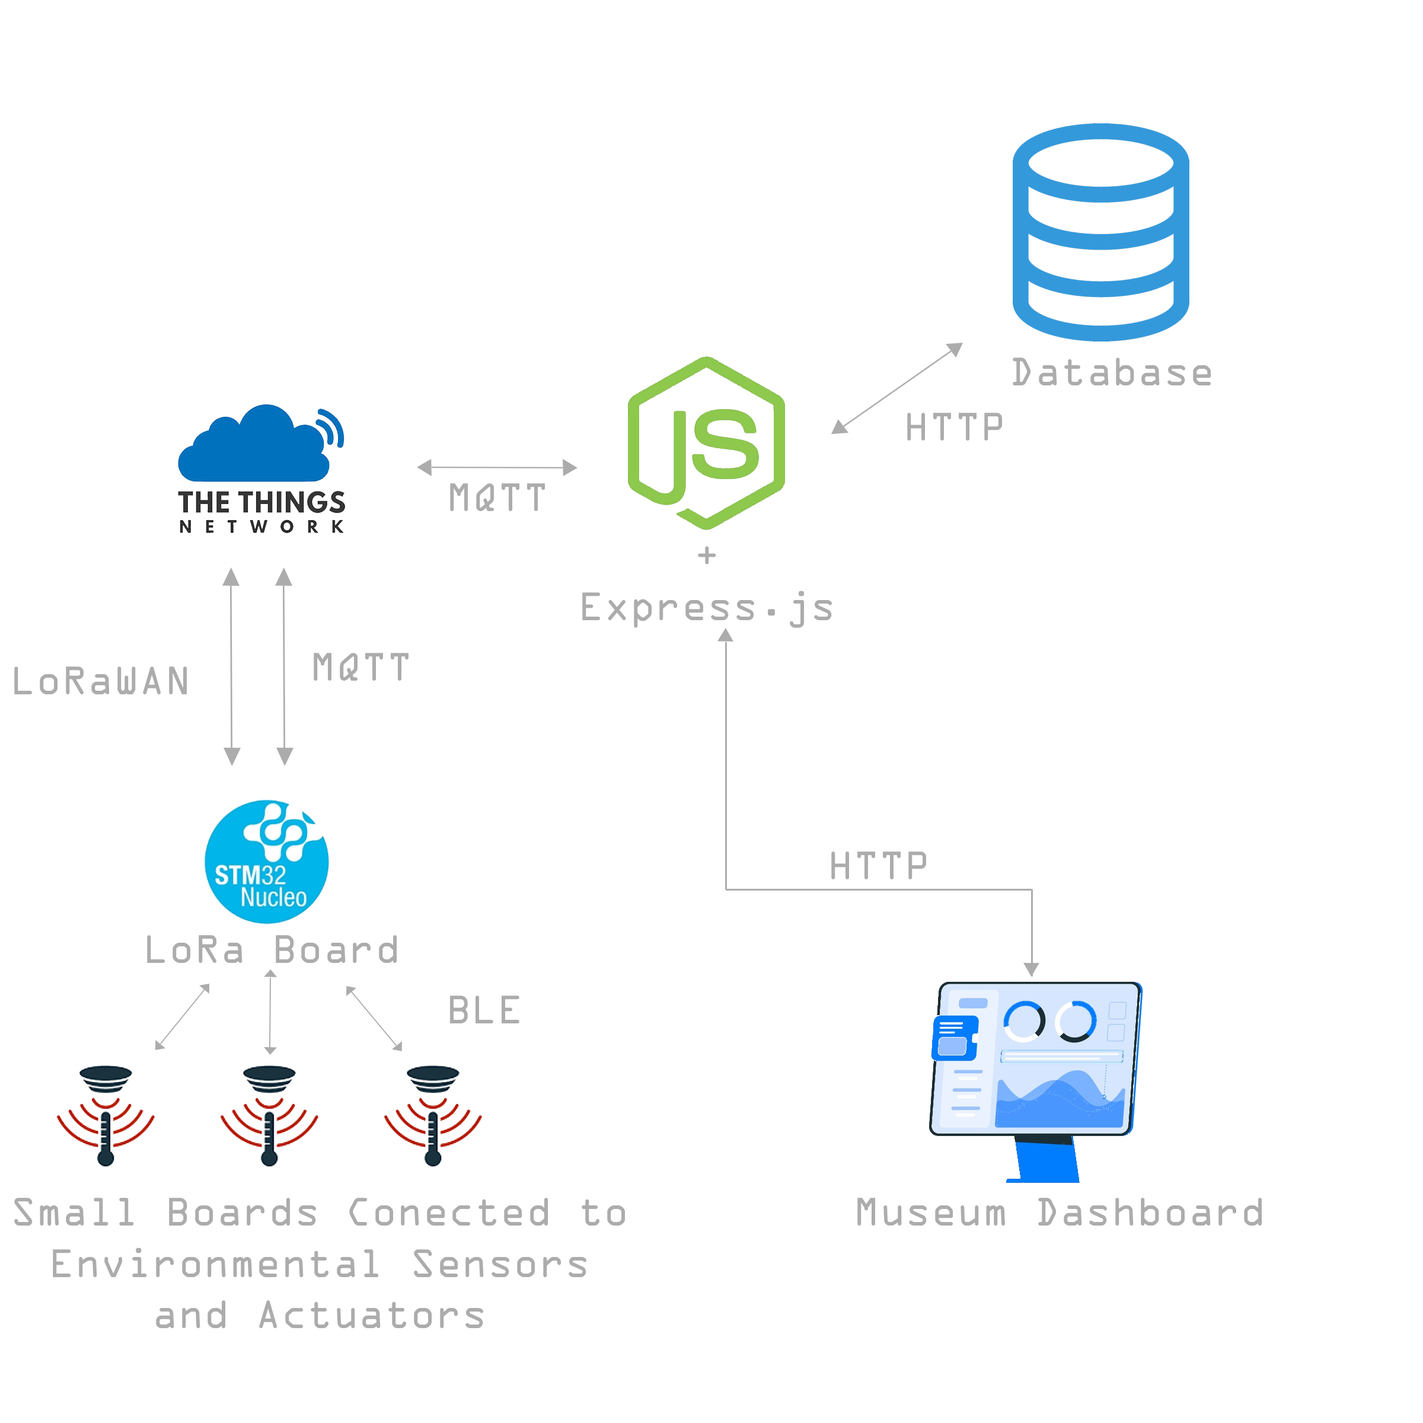
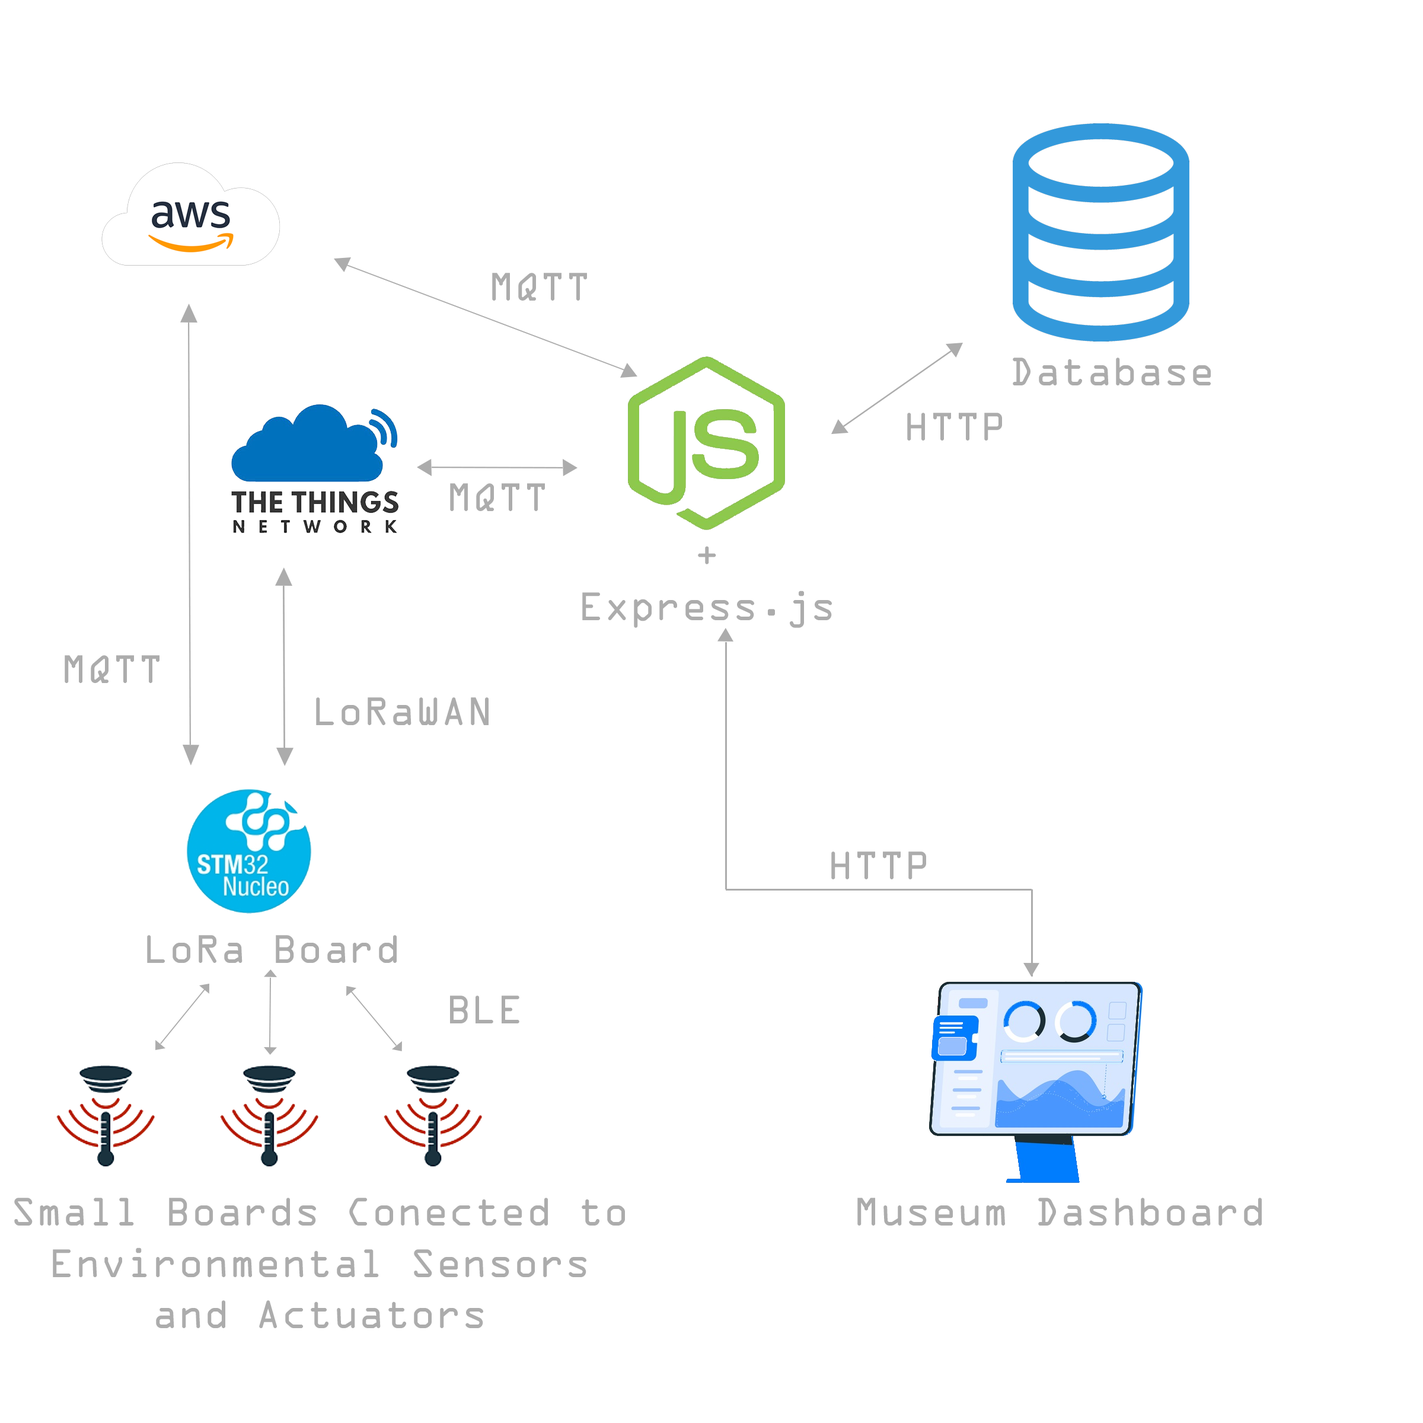
Arch.md updated, gabrileaa storyboard inserted

diff --git a/Evaluation.md b/Evaluation.md
@@ -1,0 +1,151 @@
+# :chart_with_upwards_trend: Evaluation 
+
+## User Experience Evaluation
+To evaluate the user experience we have designed a prototyper of the app (using Adobe XD Mockup software) and we have tested the usability of the product with some sample users.  
+The prototype:  
+![](/img/proto.gif)  
+  
+Feedback:  
+Since the period is a bit tough and there are severe limitations to social life, we restricted testing to our familiar. They found the prototype intuitive, but they suggested us to allow users to use the app even without bluetooth. New prototype:  
+![](/img/proto2.gif)  
+
+## Technical Evaluation
+We have decided to realize a backend microservice architecture to allow modularity and to make system evolution simple so that the application will be as long-lasting as possible, tolerant to changes, integrable with other projects from the course easily.  
+Due to Covid-19, we will test the product from a tecnichal point of view usng IoT-Lab Testbed for the indoor environmental condition monitoring  since it provieds full support to LoRaWAN and also gave access to boards with environmental sensors. Indeed we could also use it to test Beacon broadcast but It does not make much sense. So to test the mobile app we will simmulate beacons with our PC.   
+  
+According to the architecture we have described in the [Architecture file](Architecture.md) we are goingo to compare costs of a solution cloud based and a soluton on premise as well as required hardware costs. We assume project is open source hence no employee to pay.
+### Cloud Hosting Costs 
+*using AWS Pricing Calculator*:
+- To host the Node.js API we use an AWS EC2 on demand instance with daily spike traffic and that can scale up to 2 instances running. We assumed a 3.30 h daily peak of traffic, 2 vCPUs, 4 GB of memory and 32 GB EBS storage. The cost per month is 60.35$ choosing one EU region.
+-  To store data we use simple storage service S3, with an estimate (see database section below) of 500GB per month of storage needed with 100 PUT and 10000 GET, 100 GB of retrived data each month and 500 GB of data scanned. Total: 13.22 $
+- Translation service: free
+<p align="center">
+  <img height="50%" width="50%" src="../img/AWScosts.png">
+</p>   
+
+The same configuration will be 100$ per month on Google cloud only for hosting the app, without considering storage.   
+With [Azure cost estimator](https://azure.microsoft.com/it-it/pricing/calculator/), instead, we have computed 36$ per month using azure data lake storage and app service.
+<p align="center">
+  <img height="50%" width="50%" src="../img/azureCosts.png">
+</p>   
+
+However, 500 GB is an estimate of storage of a very big museum. A more realistic scenario for the Sapienza Classical Art Museum is a required storage of about 50GB (see tables below). Hence the major cost would be the app hosting service (60$/mo. on AWS and 20$/mo on Azure). Here we can think to switch to MongoDB Cloud data storage service, called Atlas, with a cost of 0.25$/hour on avg. (AWS, Google, Azure) for 50 GB storage instance.   
+__Optimize Storage Costs__  
+We can cut storage costs by not storing any audio tape. Instead we are goingo to store audio transcription and we use a text-to-speech service to reprodoce tapes. The cost of this service on google is 4$/1 million character but we can also [embedd a custom TTS engine in the android app](https://developer.android.com/reference/android/speech/tts/package-summary), hence spending nothing and reducing the database size to at most 1GB (approximation). *NB. we are trading off storage cost with more CPU power (and energy consumption) if we embedd TTS engine in the app.*
+
+### On-Premise Costs
+We assume server as well as all the required Infrastructure support (IP address, networking, DB, backup, security etc.) is provided by [InfoSapienza](https://web.uniroma1.it/infosapienza/) hence we do not need to buy anything but the hardware required by the project (ble beacons). This kind of hardware should be bought even if we choose a cloud solution, hence it is not considered here. If the assumption is true and the costs to run this applicaiton are minimum wrt all the other stuff running on the servers, this solution might be the most convenient. 
+
+### But What if...
+If  the traffic in the museum is limited, me might think to deploy the museum gateway and API with a cluster made of Raspberry PI 4B. Indeed a lot of makers are experimenting with this kind of clusters running Kubernetees and Docker containers on those devices (examples [here](https://opensource.com/article/20/3/kubernetes-raspberry-pi-k3s), [here](https://github.com/mhausenblas/kube-rpi),[here](https://github.com/codesqueak/k18srpi4),[here](https://itnext.io/building-a-kubernetes-cluster-on-raspberry-pi-and-low-end-equipment-part-1-a768359fbba3)).   The hardware is low cost (20$ for a board) and additionally we only need some ethernet cable and a switch. If we setup a cluster with 3 workers and 1 master the total cost is around 100$. [The power consumption of a board at 400% of CPU consumption is 6W](https://www.pidramble.com/wiki/benchmarks/power-consumption) (4 board consumes 0,024 KW), the price of energy is around  0,03037 €/kWh ([ref](https://tariffe.segugio.it/guide-e-strumenti/domande-frequenti/quanto-costa-un-kwh-di-energia-elettrica.aspx)), hence we should pay: ```KW * hours_of_usage * price (€/kWh) --> 0,024* 24*365 *0,03037  --> 6.4``` less than 7€ in a year. Of course, with this kind of solution we try to minimize the network traffic between the app and the server, hence we might consider the TTS (text to speech) solution described above to limit the overead to those tiny boards.
+
+### PoC
+For this prof of concept we will deploy a MongoDB instance with Atlas M0 tier (free tier for lifetime) with physical limitation of shared RAM and CPU and storage limit of 512MB. The app will be hosted locally.
+ 
+### Required Hardware
+We will use an STM NUCLEO family board. They allows to measure at the same time temperature, relative air humidity, air pressure(only some boards). Also we can either buy an [extension board](https://www.st.com/en/ecosystems/x-nucleo-idb05a1.html) to support BLE or we can buy a [board with BLE integrated](https://www.st.com/en/evaluation-tools/b-l475e-iot01a.html). This means that can this hardware is very useful also to scale the project and integrate with other projects. We estimate one beacon per room (but we can should be able to use one of it for two room either and optimize costs).
+
+
+### Final Notes on Storage Volume Estimation
+here a quick explanation on how we have evaluated storage requirements. 
+First of all we introduce a sketch of the data model (might variy during time if some special need emerges). Among the NoSQL family we have decided to choose MongoDB because it is open-source, simple, distributed and easy to scale, can migrate easy from on premise to cloud thanks to Atlas. Hence we assume our data will be stored in BSON and we estimate sizes according to its [specification](http://bsonspec.org/spec.html).  
+__Data Model__  
+*Opera:*  
+``` javascript
+{ 
+Name: "David",
+author: "Michelangelo Buonarroti"
+Descriptions: [ {"it" : "Il David è una scultura realizzata in marmo da ..."}, {"en" : "David is a masterpiece of Renaissance sculpture..."}, ...],
+Images: {presentation:BLOB, others: [BLOB, BLOB, …]}  ,
+Audios: [{language: "it", tape:BLOB}, {language: "eng", tape:BLOB}, ...] ,
+Videos: [{title:"video1", video: href},{Title:"video2", video: href2}, ... ] ,
+Room: 2 ,
+Available: True , //(for operas borrowed to other museums or currently non available)
+OnTrip: False , (for operas borrowed to other museums)
+}
+```
+The opera object contains the name of the artwork, the author, the description (array for descriptions in any language to minimize requests to an external service), Images is an object that contains the cover image called 'presentation' and some additional (optional) images. Audio and Video are addtional (optional) resources to enrich the description. Room is the room id of the artwork so that we can query the artwork document by room. Available tells us if the artwork is availabe to the public, if false it might be on trip to another museum (hence OnTrip:True) or it might be out for restoration. Those two last fields are only example to how we can customize data model according to curators needs for future developments. 
+    
+*Rooms:*
+```javascript
+{
+Number: 
+Description: [{language: "it", description:"lore ipsium ..."},…]
+Audio: [{language: "it", tape:BLOB},…] 
+Video: href
+}
+```
+Provides a general description of the room. We imagine a room as a logical representation of an historical epoch, a populaiton or something similar.
+   
+ *Paths:*
+```javascript
+Rooms: []
+Descriptions: [{language: "it", description:"lore ipsium ..."},…]
+Avg time:
+Transitions: [{from_room:to_room}]
+```
+Paths are custom guided tour that explore only part of the museum rooms or all of them with a particular order according to some criteria defined by the curator.
+
+  
+*Traffic:*
+```javascript
+{
+user_id:
+room:
+date_time:
+}
+```
+Traffic are the user indoor tracking data (Monitoring crowding in each room). A typical query will search for the number of user into  a specific room at a given time interval of a certain day.
+
+__Data Volume Estimation__  
+From [BSON specification](http://bsonspec.org/spec.html) we can read that int32 is 4 Byte, datetime is 8 Byte, characters are utf-8 encoded hence from 1 to 4 Byte, we will consider 2 Byte as approximation. 
+We will start from *Traffic* since it is the easiest one. Note that those are only rough approximations to get an idea and the actual BSON files might me larger due to uniques document ids, indexes on the collection etc...  
+we assume userid is an email address and from some google search we learned that avg email size is 25 char (50 Byte). Room is an integer (4 Byte), then we have a datetime (8 Byte). Total size of one Traffic object is 62 Bytes.   
+If the window is different from 1 min then we can compute the size as ```number_users * app_usage_duration (min) / msg_time_window (min) * 62```.  
+
+| Daily users | App Usage (min) | Collection Size (1 day) in MB |
+| --- | --- | --- |
+| 10 | 60 | 0.04 |
+| 10 | 120 | 0.07 |
+| 10 | 180 | 0.11 |
+| 100 | 60 | 0.37 |
+| 100 | 120 | 0.74 |
+| 100 | 180 | 1.12 |
+| 1000 | 60 | 3.72 |
+| 1000 | 120 | 7.44 |
+| 1000 | 180 | 11.16 |
+
+This is the only collection whose size will increase day by day. All the other collection will have an upper bound in the size. 
+  
+For the room obj we enforce one audio tape per language and one video tape. Assume 2MB for each audio tape. Video tapes will be hosted on an external service (e.g. YouTube) with subtitles and the video is embedded in the app. We have a lower bound with only one language in the db and an upper bound with 30 languages (Yandex supported languages). Size estimation formula will be: ```nr_rooms*Nr_languages*(audio_tape_size+(descr_char*2Bytes))```.
+| Nr. downloaded languages | Descr Size (nr. of char) | Audio Size MB | Nr. of Rooms | Size GB |
+| --- | --- | --- | --- | --- |
+| 1 | 1000| 2 | 20 | 0.044 |
+| 15 | 1000 | 2 | 20 | 0.660 |
+| 30 | 1000 | 2 | 20 | 1.230  |
+| 1 | 1000| 2 | 40 | 0.088 |
+| 15 | 1000 | 2 | 40 |1.320  |
+| 30 | 1000 | 2 | 40 | 2.640  |
+| 1 | 1000| 2 | 60 | 0.132 |
+| 15 | 1000 | 2 | 60 |1.980 |
+| 30 | 1000 | 2 | 60 | 3.960 |
+
+For the Opera Object the main contribution is given by Audio tape and images. We assume 5 image per artwrok of 400KB each, one audio tape of 2 MB and 200 KB for all the other fields. 4,2MB total.
+```Nr_artworks *( (size_audio+size_other_fields)*nr_languages + size_foto*number_photo )```
+| Nr. artworks| Nr. languages | Size GB |
+| --- | --- | --- |
+| 100 | 1 |  0.420 |
+| 100 | 15 | 3.5  |
+| 100 | 30 | 6.8  |
+| 300 | 1 |  1.3 |
+| 300 | 15 |  10.5 |
+| 300 | 30 |  20.4 |
+| 600 | 1 |  2.5 |
+| 600 | 15 | 21.0  |
+| 600 | 30 |  40.8 |
+| 1000 | 1 |  4.2 |
+| 1000 | 15 |  35 |
+| 1000 | 30 |  68 |
+| 10000 | 1 |  42 |
+| 10000 | 15 |  350 |
+| 10000 | 30 |  680 |

diff --git a/Architecture.md b/Architecture.md
@@ -1,0 +1,39 @@
+# Architecture   
+
+## High-Level Presentation 
+<p align="center">
+  <img height="50%" width="50%" src="img/arch_4.png">
+</p>   
+
+In principle, this is a first step for the museum through a transition into intelligent and efficient management of its resources involving two strategic areas: asset preservation and energy efficiency. Indeed, artworks conservation is a key need for a museum as pointed out during the lecture with Sapienza Museum Experts. In the meanwhile, this activity can be performed in a very smart way with the help of IoT, hence sensors, actuators and the associated infrastructure, to reduce energy cost and to augment human awareness of the process thank to newest technologies.  
+On the backend, the key concept is to develop a microservice architecture to obtain modularity and have a dynamic evolving system with a series of independent components to allow continuous integration and development.  
+The system can be easily integrated with already existing services. All those microservices are accessed thanks to a middleware that exposes a uniform API for the consumers.  
+The system, even if very simple in the beginning, can evolve to be very complex with very little effort and provide a variety of features and improvements.
+
+
+### Museum API
+The Middleware API exposes all the museum services, it will allow a transparent and uniform communication between things, database and dashboard. It will also easily allow to integrate new feature given its modularity structure.
+It is realized in NodeJS with the Express framework.
+
+
+### Museum DB
+It is a non-relational database that stores all information required. In the [evaluation](Evaluation.md) part we will discuss cloud or on-premise solutions as well as particular DBs. The choice of a NoSQL database is for its non-rigid structure that allows to speed up development. However if there is any constraint on the architecture, the API can be easily adapted to talk and support whatever kind of database.
+
+### Museum Dashboard
+Thanks to the dashboard, museum's administrator will be able to monitor environmental data to preserve artworks, both realtime and historical. They will have the possibility to define alert thresholds on measures, define thresholds for actuators and will have the possibility to switch to realtime monitoring in case of anomaly. The PoC will be realized in JavaScript and we will use Bootstrap 4 or similar technology to quickly build responsive layouts. For a production development we might think to use Flutter also for a web-based dashboard.
+
+### Nucleo Board
+The Nucleo boards used are of two types. One used as gateway inside the museum is thought to be chosen either with integrated BLE and LoRa or with extension boards, it is a matter of costs principally. The other boards will be in charge of collecting environmental sensors data and to send them to the Gateway board or to integrate actuators logic. The gateway board will aggregate and send to the Broker. From the broker, the Middleware will be in charge of consuming them and store them in the DB. The API will provide a uniform interface to clients to either real-time data (from the broker) and historical data (from DB).
+
+### Broker
+The broker will just collect data from the boards when published. As initial solution we will propose to the museum to collect environmental data in aggregated from (for example avg min and max temperature of a given time range). Based on this proposal we decided to use TheThingsNetwork and use their sdk to consume those data given their open source and free-to-use philosophy. Also this choice allows us to choose an energy saving policy for communication according to our needs.  
+In any case, the possibility to interact with a MQTT broker is also provided, so that when a more specific measure is needed we can require it. This solution, together with the possibility of on-demand billing offered by AWS allows us to make the solution sustainable. 
+
+## Components Interaction  
+
+<p align="center">
+  <img height="50%" width="50%" src="./img_new/Netarch.png">
+</p>   
+
+The backend choice between on-premise and cloud solutions will be discussed in the [evaluation](Evaluation.md) part. As initial solution we will propose to the museum to collect environmental data in aggregated from (for example avg min and max temperature of a given time range). Based on this proposal we decided to use LoRaWAN as communication protocol. If more data are needed we might switch to mqtt/mqtt-sn and change the broker accordingly. Both The Things Network and AWS IoT Brokers will interact with the NodeJS middleware with MQTT protocol. The Middleware will also act as a control layer over the data model. Inside the museum, the idea is to use cheap boards with Bluetooth Low Energy (BLE) to interact with sensors/actuators and transmit values to the central board, while only one (or a bit more for redundancy and fail tolerance) will send values with LoRaWAN to the broker.  
+The dashboard will periodically interact with the middleware using HTTP(s).

diff --git a/Design.md b/Design.md
@@ -1,0 +1,53 @@
+# Design
+
+
+## Personas :pouting_man: :pouting_woman:
+
+### :pouting_woman: Gabriella 
+<p align="center">
+  <img height="60%" width="60%" src="img/gabriella_summary.png">
+</p>   
+__Hard Facts__   
+Gabriella is 54 years old curator of the Sapienza museum. She is Italian, she graduated in cultural heritage and then supported the master's degree in Conservation of Architectural and Environmental Heritage.
+She is wife and mother of two children but above all a woman of great culture, she has an irrepressible passion for art since she was a child, she is also a great supporter of technologies in general but especially for those that  can be put at the service of her museum, in fact she would like to transform her museum into a smart museum making it as accessible and interactive as possible.  
+
+__Interest and Value__  
+Gabriella loves watching movies and going out with her family on the weekend, especially when the weather is good, she is a meteoropathic and loves summer but in winter she is more concentrated, obviously without taking away too much space for fun.
+But when she wants time for her, she reads a nice book in the living room drinking tea and maybe thinking about some innovation for the museum.  
+
+__Home, internet and tech__   
+As already said gabriella is a fan of technology in fact her house is smart, all the appliances are smart: the lights, the television, the audio system, for example on Sunday morning she wakes up and asks Amazon alexa to put some relaxing music in the afternoon she asks alexa for a film to watch on smart TV and then she enjoys watching it with her family.  
+
+__A Typical Day__   
+* Wake up at 7 am, breakfast with the family.  
+* She takes the kids to school.  
+* Then she goes to work at 8:00 am.  
+* She eats her lunch.  
+*  Afternoon shift at the museum, 2 pm.  
+* Then she come back at home at 6 am.  
+![Gabriella Storyboard](/img_new/gabriella_storyboard.png)
+
+
+### :pouting_man: Anand
+<p align="center">
+  <img height="60%" width="60%" src="img/anand_summary.png">
+</p>   
+
+__Hard Facts__ 
+Anand is a 23 years old student of linguistic. He grew up in Mongolia and he lived there with his family untill he moved to Italy to complete his study path, and he started university there. He had a lot of friends in Mongolia and he thinks friendship is one of the most important values of its life. He spent the last summer in Russia and he had a girlfriend there, but now he is single and he is not searching for a relationship. During the trip he learned a bit of english and russian. He does not speak italian yet.     
+Before leave Mongolia Anand rent a room online thanks to a platform sponsored by Sapienza University and he decided to move in Italy one week before the lessons start so that he can find a job to help his family with rent and university fees. He got a job as a dishwasher on him third day in Rome. He has not any friend in Italy yet so he decided to spent the free days left to explore the city and University Campus. However, since he is not very pratical with english and italian yet, he finds very challenging and mentally tiring to spent a day around reading and listening in foreign languages although he is very curious to learn italian history, culture and habits.  
+__Interest and Values__  
+He loves to read books at home at night as opposed to going out to  bars. He does like to hang out with a small group of friends at home or  at quiet coffee shops. He cares a lot about looks and  fashion.
+In an average day, he tends to drink many cups of American coffee, and he  usually cooks his own healthy dishes. He prefers organic food, however, he’s not always able to afford it.  
+__Computer, Internet and TV Use__    
+Anand owns a PC and an iPhone. He uses the  internet for his studies to conduct the majority of his preliminary  research and studies user reviews to help him decide upon which books to  read and buy. Anand is also streaming all of his music and he watches  movies online since he does not want to own a TV. He thinks TV’s are outdated and he does not want to waste his time watching TV shows, entertainment, documentaries, or news which he has not chosen and finds 100 % interesting himself.   
+__A Typical Day__  
+* Anand gets up at 7 am. He eats American breakfast at home and leaves for university at 8.15 every morning. 
+* Depending on his schedule, he studies by himself or attends a  class. He has 20 hours of classes at Master level every week, and he studies for 20 hours on his own.  
+* He eats his lunch.
+* He continues to study.
+* He leaves for home at 6pm. Sometimes he continues to study 1-2 hours at home.      
+* Three nights a week he works as a dishwasher at a small eco-restaurant from 6pm to 10pm.
+
+![Anand Storyboard](./img/anand_storyboardv2.png)
+
